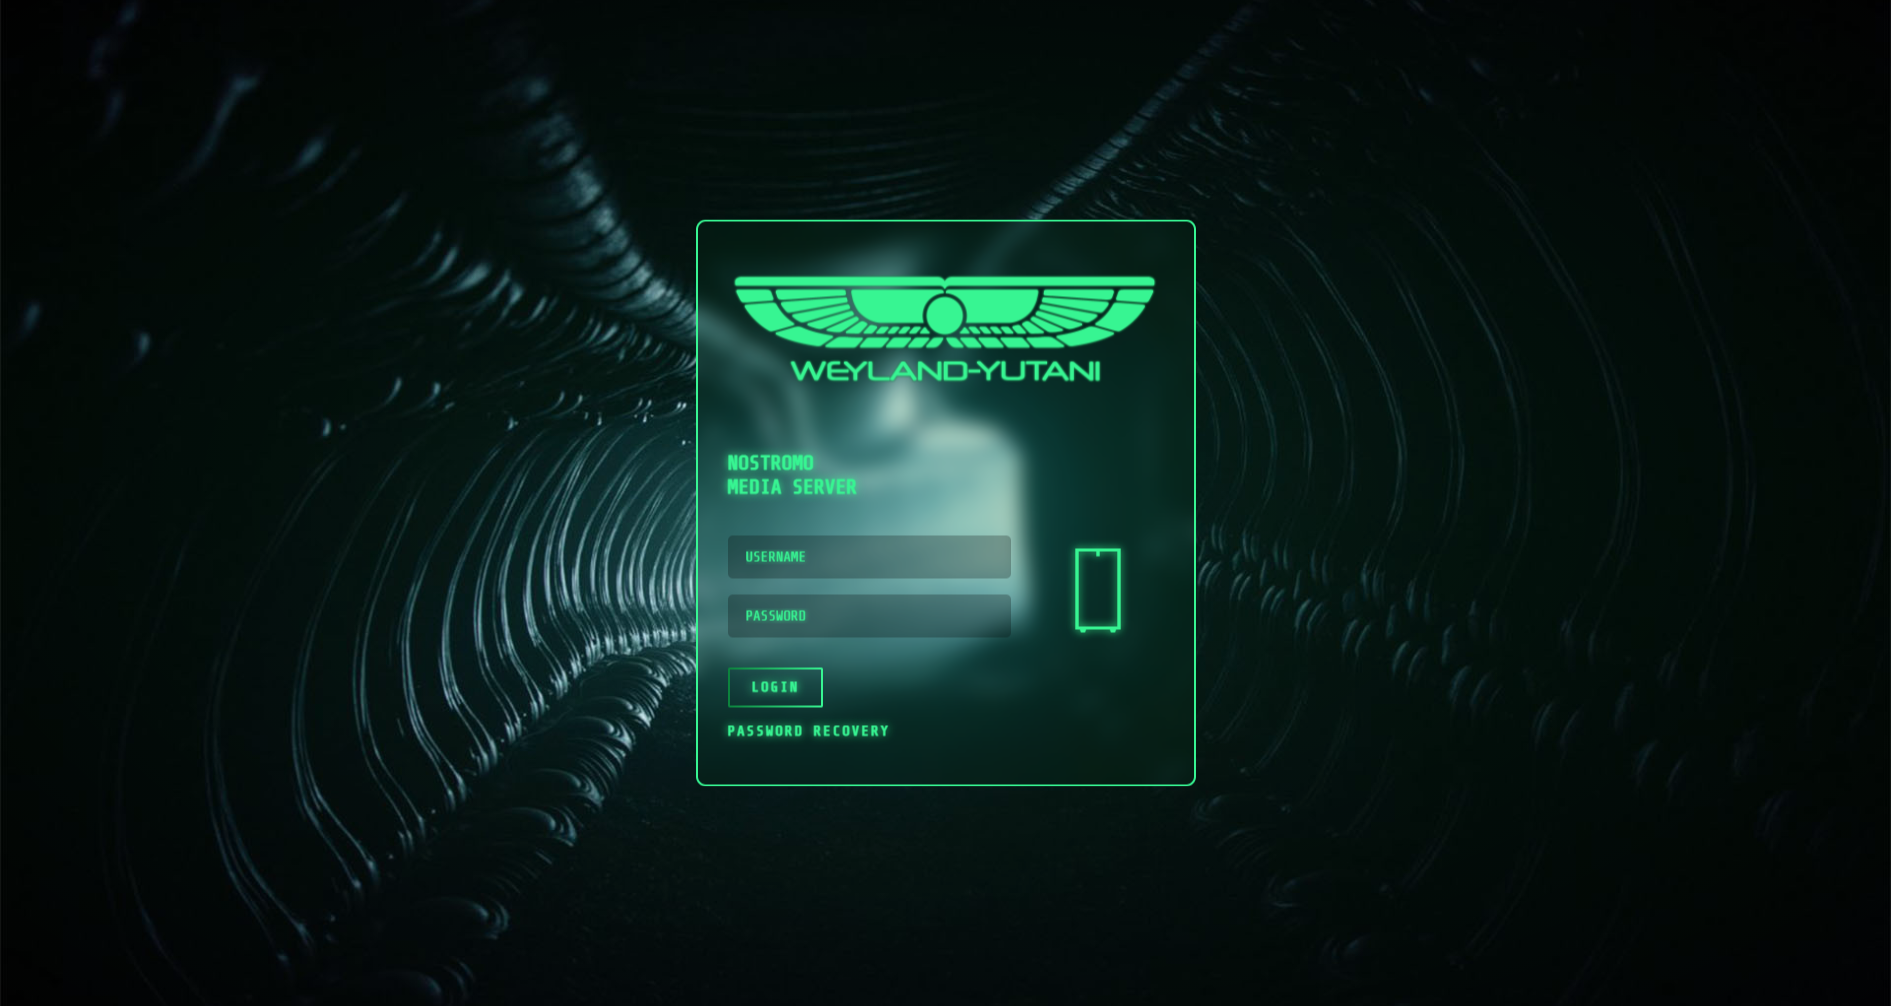
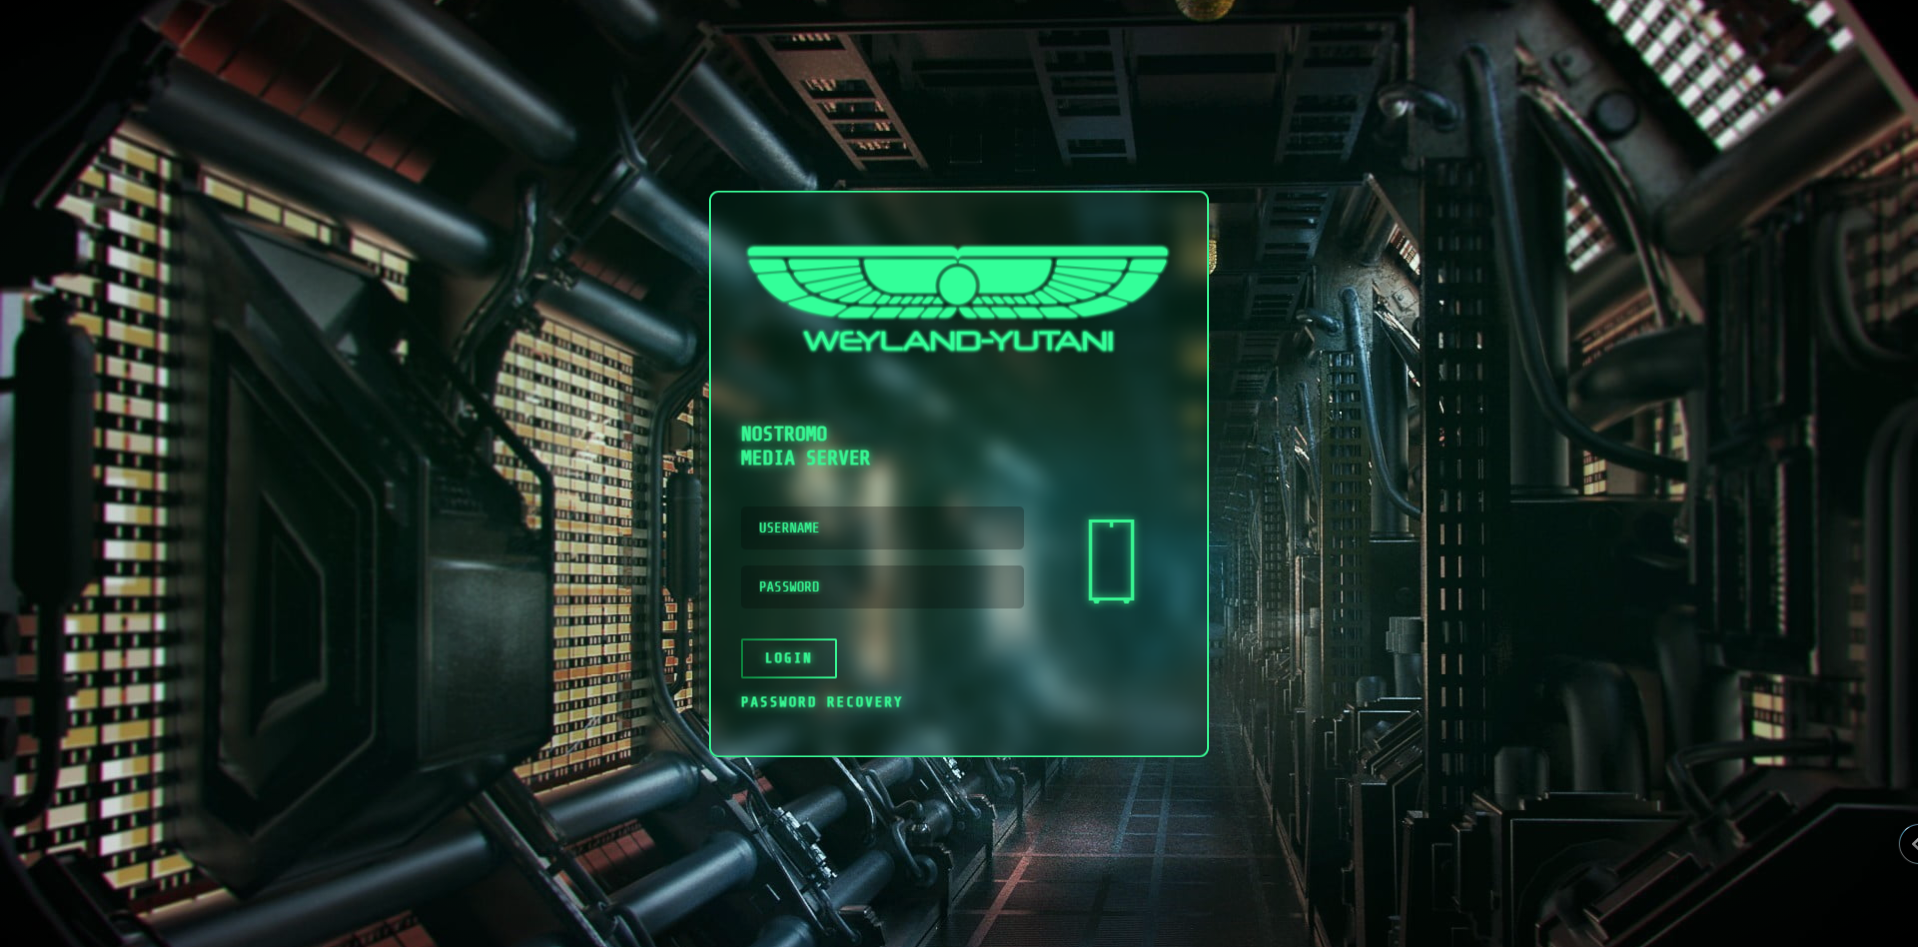
screenshots

diff --git a/CSS/addons/unraid/login-page/alien/alien_base.css b/CSS/addons/unraid/login-page/alien/alien_base.css
@@ -27,7 +27,7 @@
     outline: none;
 }
 
-@media (max-width: 500px) {
+@media only screen and (max-width: 500px) {
     #login {
         -webkit-backdrop-filter: blur(0px);
         backdrop-filter: blur(0px);
@@ -42,7 +42,7 @@
     }
     .background-wrap,#video-bg-elem  {display: none;}
     
-    .shadow {
+    #login {
         -webkit-box-shadow: inset 0px 0px 0px 2px #F000 !important;
         box-shadow: inset 0px 0px 0px 2px #F000 !important;
     }
@@ -240,6 +240,6 @@ body {
 }
 /*LOGIN BOX SHADOW*/
 .shadow {
-    -webkit-box-shadow: inset 0px 0px 0px 2px var(--text-color);
-    box-shadow: inset 0px 0px 0px 2px var(--text-color);
+    -webkit-box-shadow: inset 0px 0px 0px 2px var(--text-color) !important;
+    box-shadow: inset 0px 0px 0px 2px var(--text-color) !important;
 }

diff --git a/CSS/addons/unraid/login-page/alien/isolation.css b/CSS/addons/unraid/login-page/alien/isolation.css
@@ -2,7 +2,7 @@
 :root {
     --main-bg: radial-gradient(ellipse at center,rgba(0, 255, 119, 0.1) 0,rgba(0,255,119,0) 100%) center center/cover no-repeat fixed, 
     url(https://gilbn.github.io/theme.park/CSS/addons/unraid/login-page/alien/wallpaper/isolation.png) center center/cover no-repeat fixed;
-    --logo: url(https://gilbn.github.io/theme.park/CSS/addons/unraid/login-page/alien/logo/nostromogreen2.png) center no-repeat;
+    --logo: url(https://gilbn.github.io/theme.park/CSS/addons/unraid/login-page/alien/logo/wings_green.png) center no-repeat;
     --text-color: #37f592;
     --input-color: #37f592;
     --link-color: #37f592;

diff --git a/CSS/addons/unraid/login-page/alien/hallway2.css b/CSS/addons/unraid/login-page/alien/hallway2.css
@@ -2,7 +2,7 @@
 :root {
     --main-bg: radial-gradient(ellipse at center,rgba(0, 255, 119, 0.1) 0,rgba(0,255,119,0) 100%) center center/cover no-repeat fixed, 
     url(https://gilbn.github.io/theme.park/CSS/addons/unraid/login-page/alien/wallpaper/hallway2.jpg) center center/cover no-repeat fixed;
-    --logo: url(https://gilbn.github.io/theme.park/CSS/addons/unraid/login-page/alien/logo/nostromogreen2.png) center no-repeat;
+    --logo: url(https://gilbn.github.io/theme.park/CSS/addons/unraid/login-page/alien/logo/wings_green.png) center no-repeat;
     --text-color: #37f592;
     --input-color: #37f592;
     --link-color: #37f592;

diff --git a/CSS/addons/unraid/login-page/alien/hallway3.css b/CSS/addons/unraid/login-page/alien/hallway3.css
@@ -2,7 +2,7 @@
 :root {
     --main-bg: radial-gradient(ellipse at center,rgba(0, 255, 119, 0.1) 0,rgba(0,255,119,0) 100%) center center/cover no-repeat fixed, 
     url(https://gilbn.github.io/theme.park/CSS/addons/unraid/login-page/alien/wallpaper/hallway3.jpg) center center/cover no-repeat fixed;
-    --logo: url(https://gilbn.github.io/theme.park/CSS/addons/unraid/login-page/alien/logo/nostromogreen2.png) center no-repeat;
+    --logo: url(https://gilbn.github.io/theme.park/CSS/addons/unraid/login-page/alien/logo/wings_green.png) center no-repeat;
     --text-color: #37f592;
     --input-color: #37f592;
     --link-color: #37f592;

diff --git a/CSS/addons/unraid/login-page/alien/hallway4.css b/CSS/addons/unraid/login-page/alien/hallway4.css
@@ -2,7 +2,7 @@
 :root {
     --main-bg: radial-gradient(ellipse at center,rgba(0, 255, 119, 0.1) 0,rgba(0,255,119,0) 100%) center center/cover no-repeat fixed, 
     url(https://gilbn.github.io/theme.park/CSS/addons/unraid/login-page/alien/wallpaper/hallway4.jpg) center center/cover no-repeat fixed;
-    --logo: url(https://gilbn.github.io/theme.park/CSS/addons/unraid/login-page/alien/logo/nostromogreen2.png) center no-repeat;
+    --logo: url(https://gilbn.github.io/theme.park/CSS/addons/unraid/login-page/alien/logo/wings_green.png) center no-repeat;
     --text-color: #37f592;
     --input-color: #37f592;
     --link-color: #37f592;

diff --git a/CSS/addons/unraid/login-page/alien/hallway.css b/CSS/addons/unraid/login-page/alien/hallway.css
@@ -2,7 +2,7 @@
 :root {
     --main-bg: radial-gradient(ellipse at center,rgba(0, 255, 119, 0.1) 0,rgba(0,255,119,0) 100%) center center/cover no-repeat fixed, 
     url(https://gilbn.github.io/theme.park/CSS/addons/unraid/login-page/alien/wallpaper/hallway.jpg) center center/cover no-repeat fixed;
-    --logo: url(https://gilbn.github.io/theme.park/CSS/addons/unraid/login-page/alien/logo/nostromogreen2.png) center no-repeat;
+    --logo: url(https://gilbn.github.io/theme.park/CSS/addons/unraid/login-page/alien/logo/wings_green.png) center no-repeat;
     --text-color: #37f592;
     --input-color: #37f592;
     --link-color: #37f592;

diff --git a/CSS/addons/unraid/login-page/alien/nightmare.css b/CSS/addons/unraid/login-page/alien/nightmare.css
@@ -2,7 +2,7 @@
 :root {
     --main-bg: radial-gradient(ellipse at center,rgba(0, 255, 119, 0.1) 0,rgba(0,255,119,0) 100%) center center/cover no-repeat fixed, 
     url(https://gilbn.github.io/theme.park/CSS/addons/unraid/login-page/alien/wallpaper/nightmare.png) center center/cover no-repeat fixed;
-    --logo: url(https://gilbn.github.io/theme.park/CSS/addons/unraid/login-page/alien/logo/nostromored.png) center no-repeat;
+    --logo: url(https://gilbn.github.io/theme.park/CSS/addons/unraid/login-page/alien/logo/wings_red.png) center no-repeat;
     --text-color: #e22828;
     --input-color: #e22828;
     --link-color: #e22828;

diff --git a/CSS/addons/unraid/login-page/alien/isolation_video.css b/CSS/addons/unraid/login-page/alien/isolation_video.css
@@ -1,7 +1,7 @@
 @import url("https://gilbn.github.io/theme.park/CSS/addons/unraid/login-page/alien/alien_base.css");
 :root {
     --main-bg: transparent;
-    --logo: url(https://gilbn.github.io/theme.park/CSS/addons/unraid/login-page/alien/logo/nostromogreen2.png) center no-repeat;
+    --logo: url(https://gilbn.github.io/theme.park/CSS/addons/unraid/login-page/alien/logo/wings_green.png) center no-repeat;
     --text-color: #37f592;
     --input-color: #37f592;
     --link-color: #37f592;
